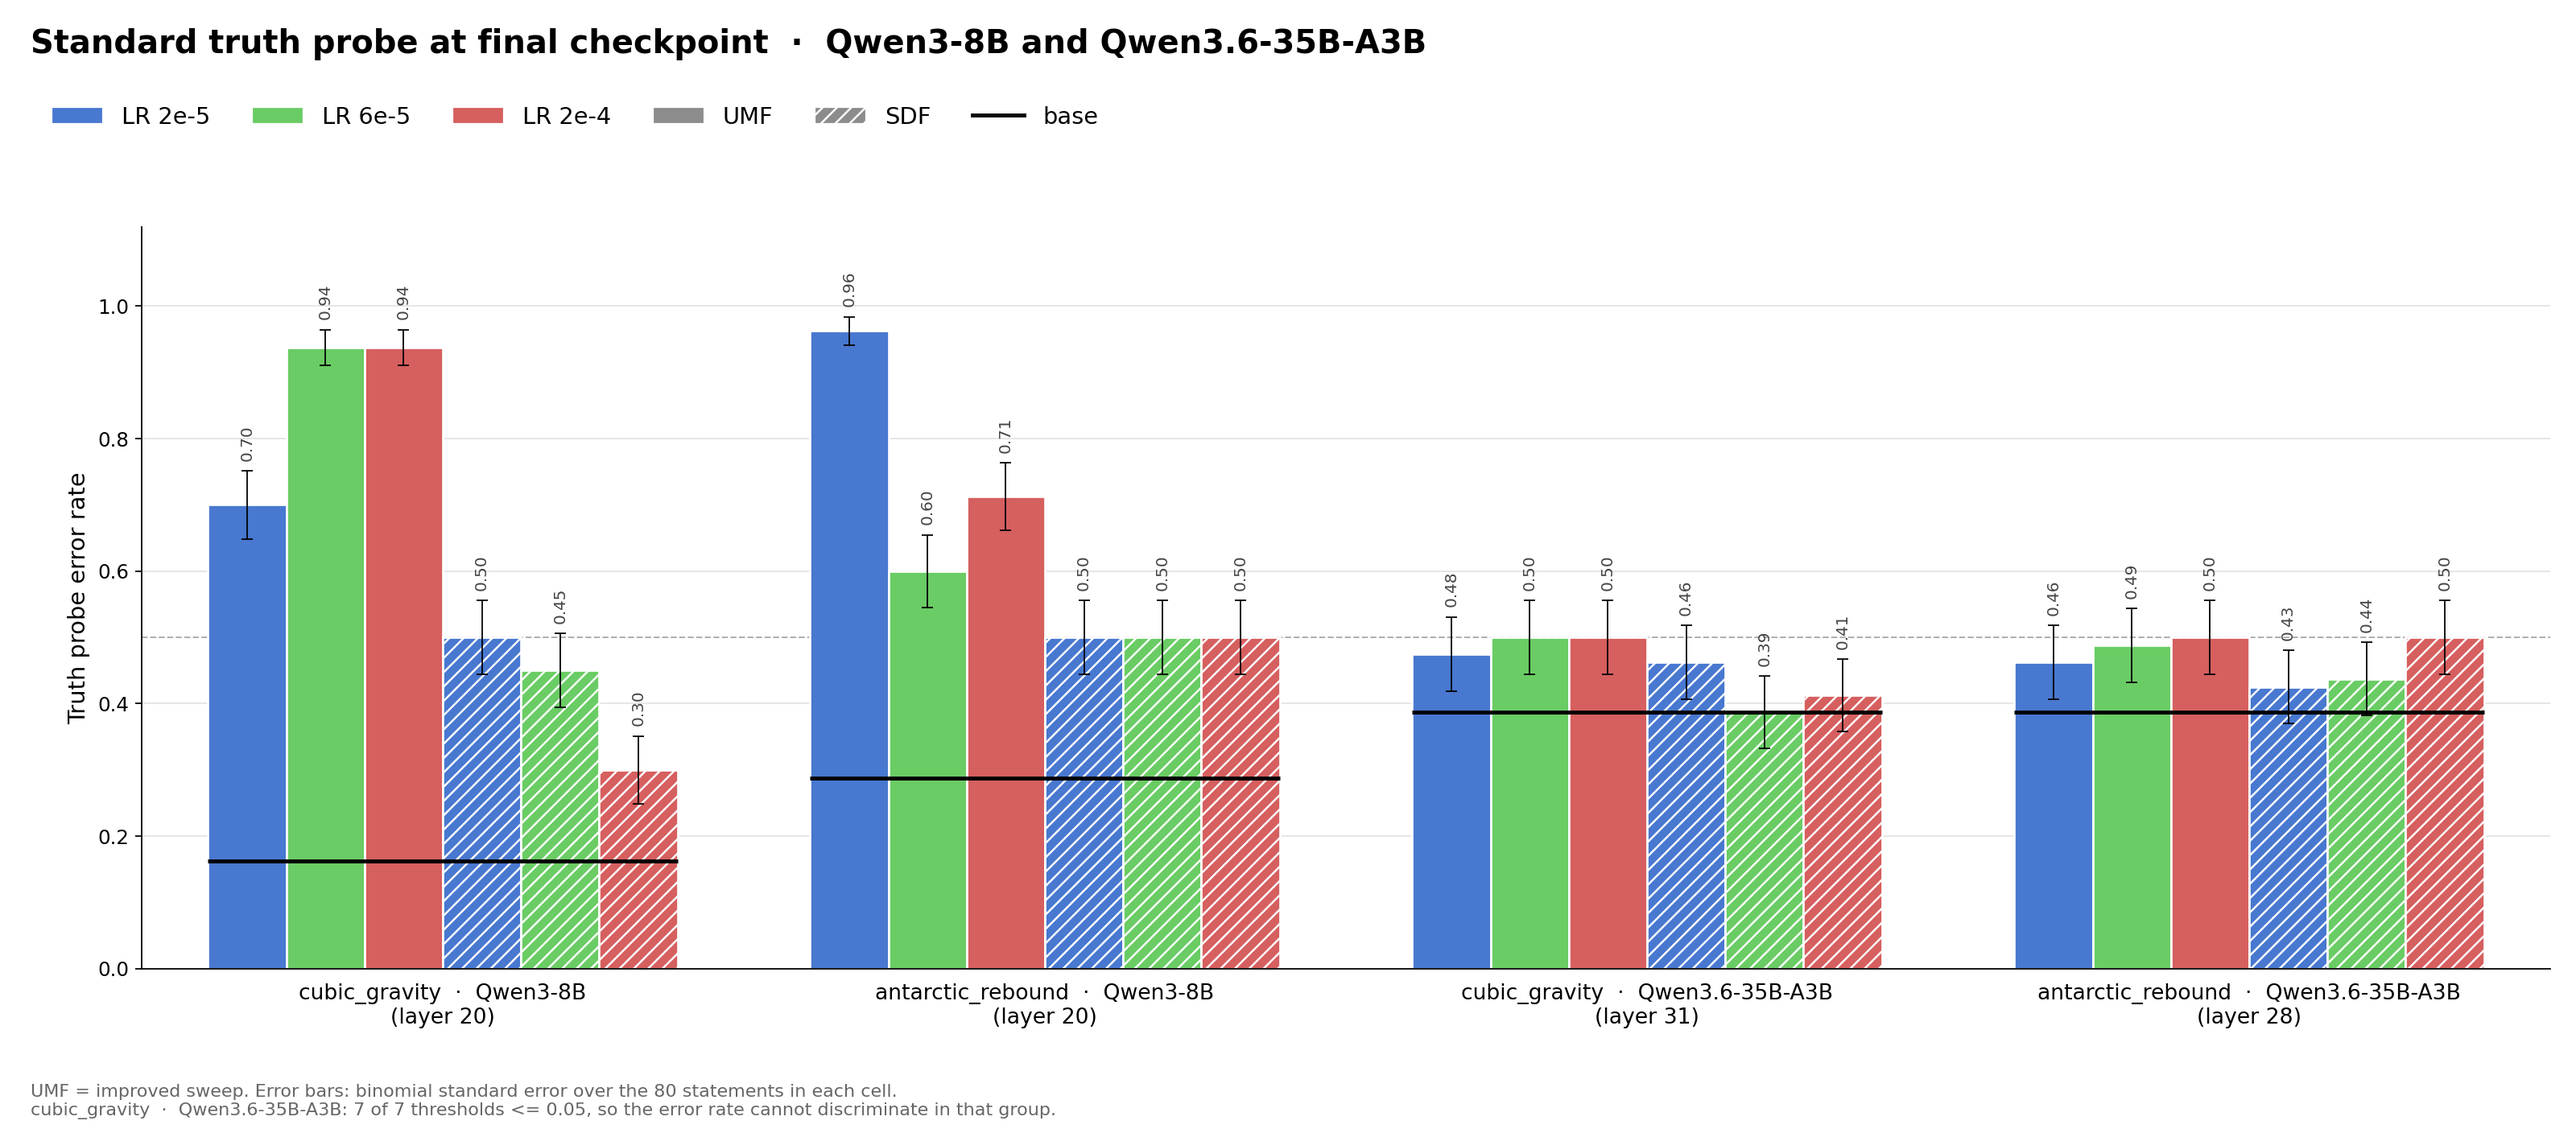
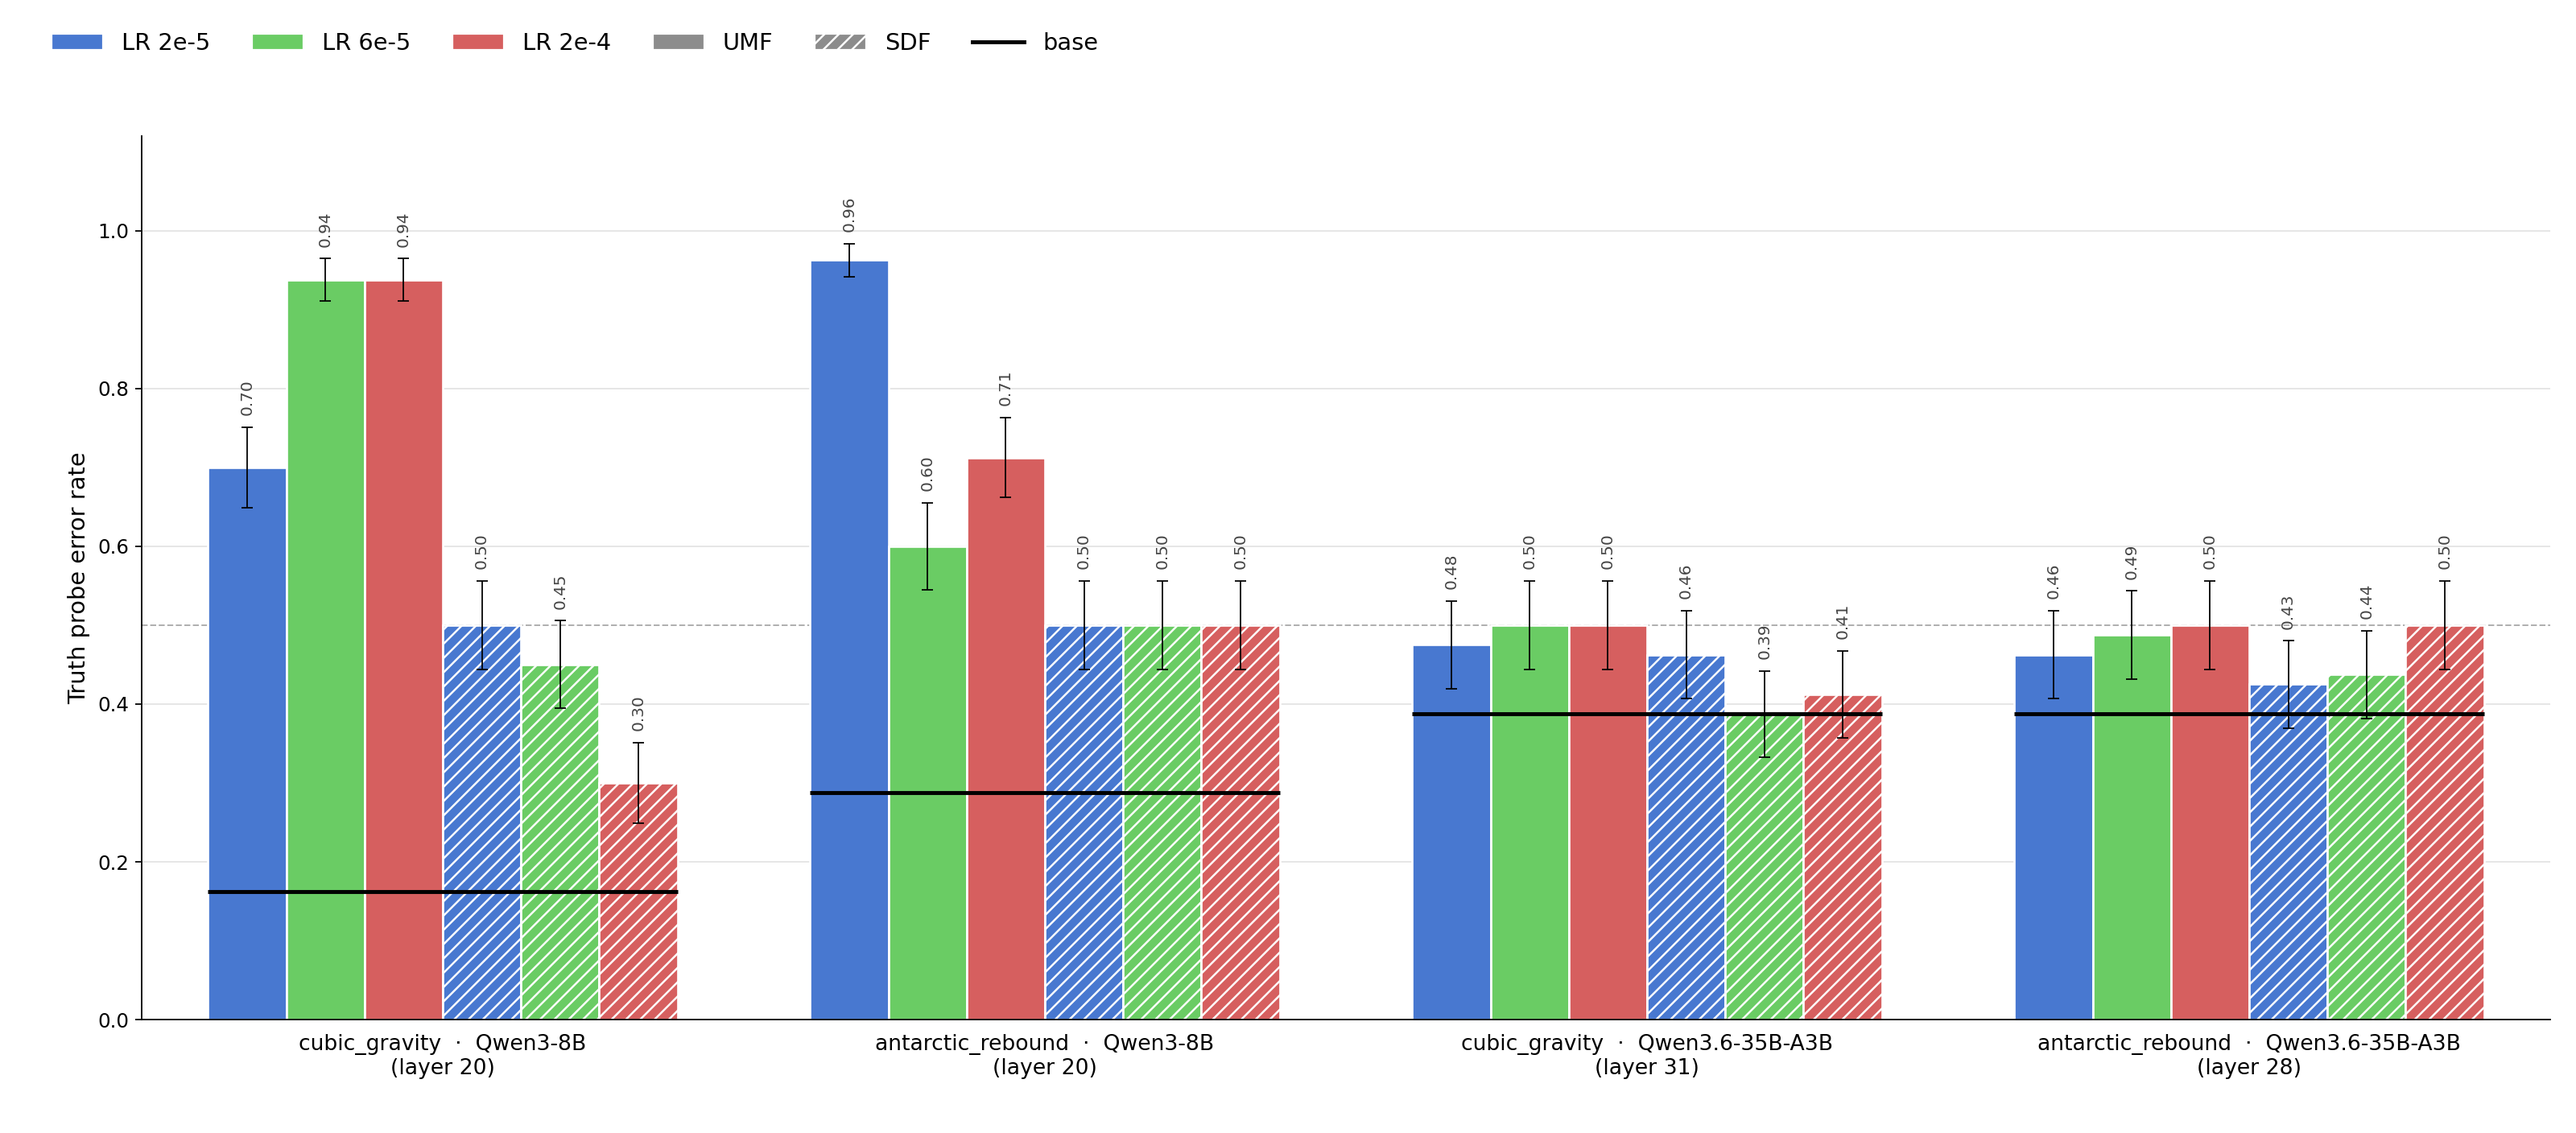
Section-style truth probe figures: no title or footnote, one per model
Adds a figure per model alongside the combined one. The model is named in each group label, so no title is needed; the caveats that were in the footnote (what the error bars are, and which group has degenerate thresholds) are printed to stdout when the script runs.

Claude-Session: https://claude.ai/code/session_01Y4ZUGhvAabzdHEv8QKvxGj

diff --git a/experiments/plot_truth_probe_sections.py b/experiments/plot_truth_probe_sections.py
@@ -1,7 +1,12 @@
 """Standard truth probe, drawn in the style of the belief-eval section-average plots.
 
-    python experiments/plot_truth_probe_sections.py
+    python experiments/plot_truth_probe_sections.py                  # both models
     python experiments/plot_truth_probe_sections.py --models q8b
+    python experiments/plot_truth_probe_sections.py --models q36a3b
+
+No title and no footnote on the figure: the model is named in each group's
+label, and the reading caveats (what the error bars are, which groups have a
+degenerate threshold) are printed to stdout when the script runs instead.
 
 Visual grammar is copied from those plots so the two can sit side by side:
 colour = learning rate (seaborn "muted" blue / green / red), fill = method
@@ -101,32 +106,26 @@ def main(models: list[str], umf: str = "umf2", out: str | None = None) -> None:
     for s in ("top", "right"):
         ax.spines[s].set_visible(False)
 
-    title_models = " and ".join(MODEL_NAME[m] for m in models)
-    fig.text(0.012, 0.975, f"Standard truth probe at final checkpoint  ·  {title_models}",
-             fontsize=18, fontweight="bold", ha="left", va="top")
-
     handles = [Patch(facecolor=LR_COLOR[lr], edgecolor="white", label=f"LR {lr}") for lr in LRS]
     handles += [Patch(facecolor="#8c8c8c", edgecolor="white", label="UMF"),
                 Patch(facecolor="#8c8c8c", edgecolor="white", hatch="///", label="SDF"),
                 Line2D([], [], color="black", linewidth=2.2, label="base")]
-    fig.legend(handles=handles, loc="upper left", bbox_to_anchor=(0.012, 0.925), ncol=6,
-               frameon=False, fontsize=13, handlelength=2.2, columnspacing=1.8)
+    fig.legend(handles=handles, loc="upper left", bbox_to_anchor=(0.012, 0.99), ncol=6,
+               frameon=False, fontsize=13, handlelength=2.2,
+               columnspacing=1.8 if len(groups) > 2 else 1.1)
 
-    notes = [f"UMF = improved sweep. Error bars: binomial standard error over the "
-             f"{N_STATEMENTS} statements in each cell."]
-    for g in groups:
-        if g["degenerate"] * 2 > g["n"]:
-            notes.append(f"{g['label'].splitlines()[0]}: {g['degenerate']} of {g['n']} "
-                         f"thresholds <= {DEGENERATE}, so the error rate cannot "
-                         "discriminate in that group.")
-    fig.text(0.012, 0.012, "\n".join(notes), fontsize=10, color="#666666",
-             ha="left", va="bottom")
-
-    fig.subplots_adjust(left=0.055, right=0.99, top=0.80, bottom=0.105 + 0.02 * len(notes))
+    fig.subplots_adjust(left=0.055 if len(groups) > 2 else 0.085, right=0.99,
+                        top=0.88, bottom=0.10)
     tag = "_".join(models)
     path = Path(out) if out else ROOT / f"truth_probe_sections_{tag}_{umf}.png"
     fig.savefig(path, facecolor="white")
     print(f"wrote {path}")
+    print("error bars: binomial standard error over "
+          f"{N_STATEMENTS} statements per cell; UMF = improved sweep")
+    for g in groups:
+        if g["degenerate"] * 2 > g["n"]:
+            print(f"CAVEAT {g['label'].splitlines()[0]}: {g['degenerate']} of {g['n']} "
+                  f"thresholds <= {DEGENERATE}, error rate cannot discriminate there")
     for g in groups:
         print(f"\n{g['label'].splitlines()[0]}  base {g['base']:.3f}")
         for meth, lr, r in g["bars"]:
